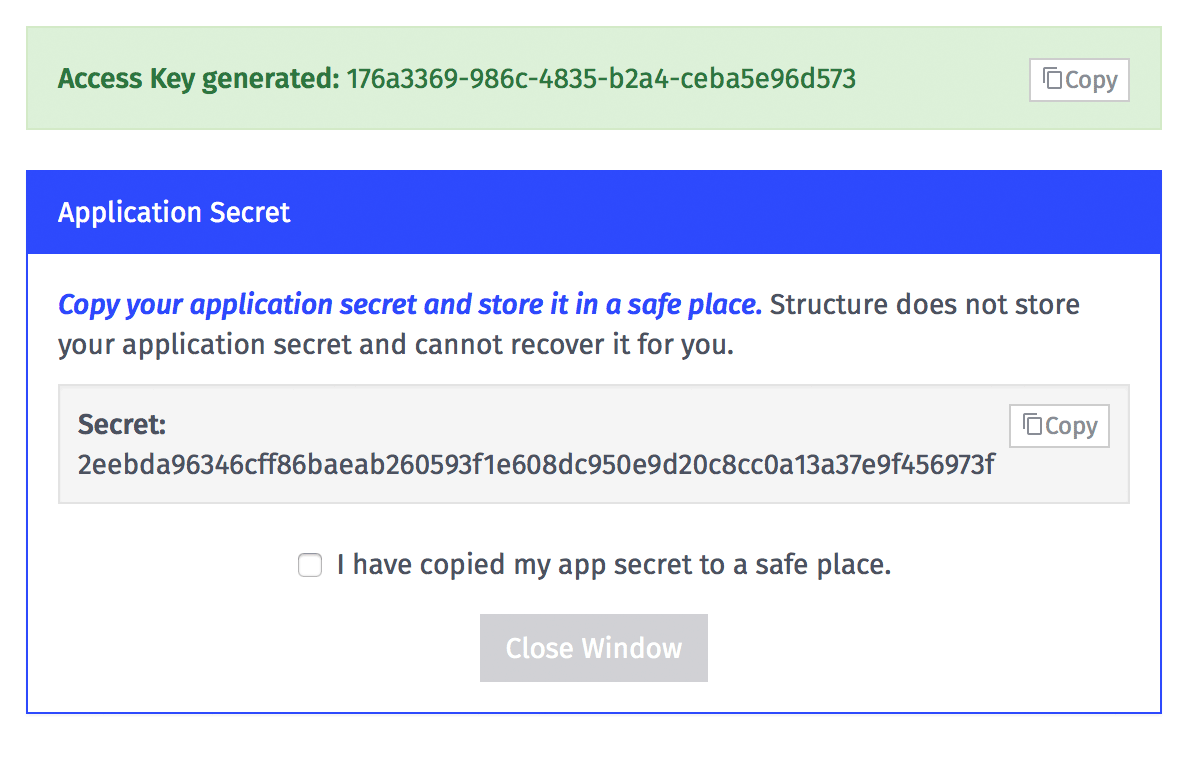
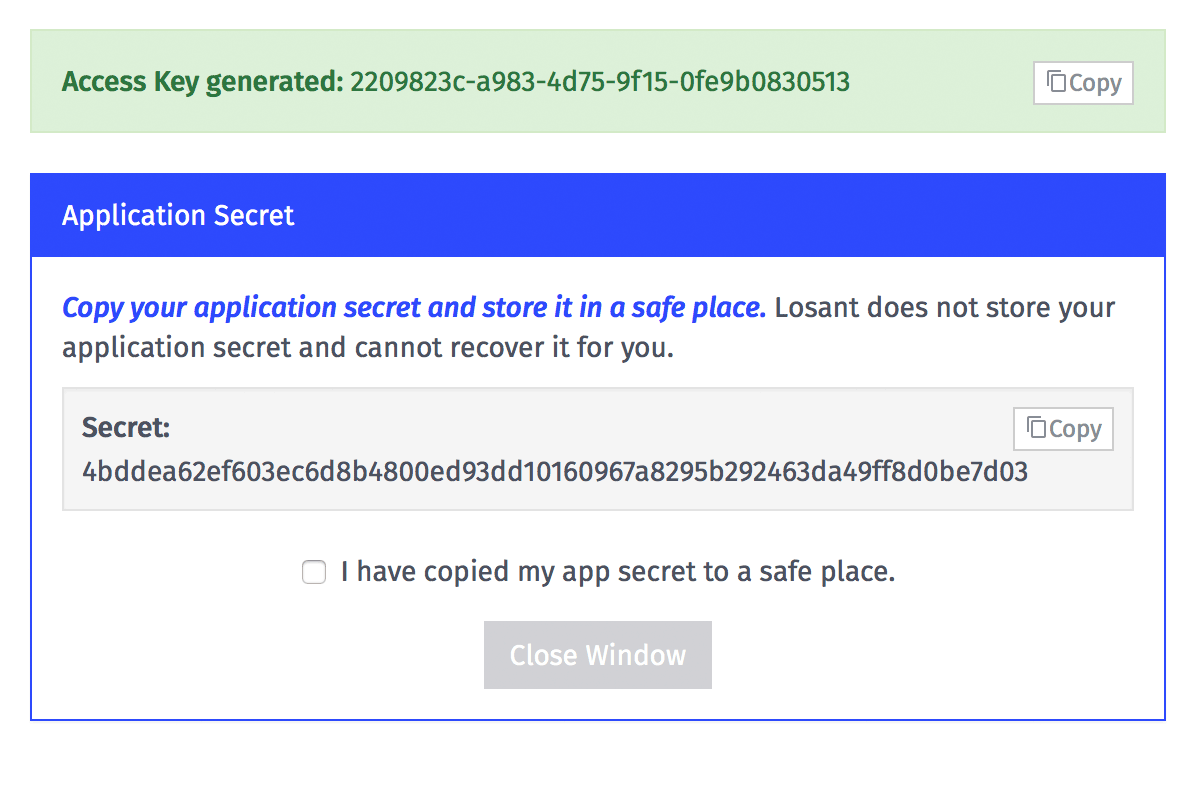
Added moisture sensor kit instructions.

diff --git a/docs/getting-started/losant-iot-dev-kits/moisture-sensor-kit.md b/docs/getting-started/losant-iot-dev-kits/moisture-sensor-kit.md
@@ -1,1 +1,251 @@
 # Moisture Sensor Kit Instructions
+
+The Losant Moisture Sensor Kit includes everything required to keep your plants watered and happy. These instructions provide a step-by-step overview to build and configure your moisture sensor to alert you via SMS or email when your plant needs attention.
+
+As you perform these workshops, if you run into any issues, please refer to the [Losant Documentation](https://docs.losant.com) and the [Losant Forums](https://forums.losant.com) for help.
+
+Your kit should include the following items:
+
+* 1 NodeMCU development board
+* 1 Moisture sensor
+* 1 LED
+* 2 male-to-male jump wires
+* 3 male-to-female jump wires
+* 1 resistor
+* 1 solderless breadboard
+* 1 USB cable
+
+## Environment Setup
+
+In order to properly program the kit's microcontroller, please follow the [environment setup instructions](/getting-started/losant-iot-dev-kits/environment-setup/). These steps only need to be completed once, so if you've already done this for a previous kit, you can skip this step.
+
+## Losant Setup
+
+In this section, you’ll register for a Losant account, create your application, and add the device for your builder kit.
+
+### Create Account
+
+If you don't already have an account, navigate to [https://accounts.losant.com/create-account](https://accounts.losant.com/create-account) to register.
+
+### Create Application
+
+Create an application for the moisture sensor kit. You can name it whatever you want.
+
+![Create Application](/images/getting-started/losant-iot-dev-kits/builder-kit/create-application.png "Create Application")
+
+![Application Name](/images/getting-started/losant-iot-dev-kits/moisture-sensor/application-name.png "Application Name")
+
+### Add Device
+
+The next step is to register the moisture sensor kit device with the platform. Click the `Add Device` button on the top right or select `Add Device` from the Devices dropdown.
+
+![Add Device Menu](/images/getting-started/losant-iot-dev-kits/moisture-sensor/add-device.png "Add Device Menu")
+
+Next, choose the `Create from Scratch` option.
+
+![Create From Scratch](/images/getting-started/losant-iot-dev-kits/moisture-sensor/add-from-scratch.png "Create From Scratch")
+
+![Device Settings](/images/getting-started/losant-iot-dev-kits/moisture-sensor/device-settings.png "Device Settings")
+
+1. Name the device anything you want.
+1. "Description" can be left blank, or fill it with whatever you want.
+1. Leave "Virtual Device" unchecked.
+1. No device tags are required.
+1. Add a device attribute with the name "moisture" and the type `Number`.
+
+The device attributes specify what state information the device reports. The firmware that you’ll flash in the following sections will report the raw moisture level from the sensor every minute. Device attributes are ***case sensitive***, so make sure these are ***all lowercase***.
+
+Click the `Create Device` button. The screen will change and show the device’s ID. This ID is required for the following sections. You might want to copy/paste it somewhere convenient.
+
+![Device ID](/images/getting-started/losant-iot-dev-kits/moisture-sensor/device-id.png "Device ID")
+
+### Generate Security Tokens
+
+Now we need to generate some security tokens so your device can authenticate against the Losant platform. Select `More > Access Keys` from the application menu.
+
+![Access Keys Menu](/images/getting-started/losant-iot-dev-kits/moisture-sensor/access-keys-menu.png "Access Keys Menu")
+
+Generate an access key that provides access to all devices in your application.
+
+![Token Restrictions](/images/getting-started/losant-iot-dev-kits/builder-kit/token-restrictions.png "Token Restrictions")
+
+This will cause a popup to appear with your access tokens. Losant ***DOES NOT*** store the secret, so you’ll have to copy it somewhere secure. Both of these values will be needed in the following sections, so make sure you copy/paste them somewhere convenient.
+
+![Access Token Popup](/images/getting-started/losant-iot-dev-kits/builder-kit/access-token-popup.png "Access Token Popup")
+
+## Get Moisture Sensor Firmware
+
+Now let's get the firmware you'll be flashing to the device. Download and extract the following zip file to your computer. We'll be editing and opening these files using the Arduino IDE, so put it somewhere convenient.
+
+[https://github.com/Losant/losant-kit-moisture/archive/master.zip](https://github.com/Losant/losant-kit-moisture/archive/master.zip)
+
+If you're familiar with git, you can also clone the repository from here:
+
+[https://github.com/Losant/losant-kit-moisture](https://github.com/Losant/losant-kit-moisture)
+
+## Wiring
+
+***Disconnect the microcontroller from USB before wiring.***
+
+In this step we're going to to connect the moisture sensor and the LED to the microcontroller. Below is the wiring diagram.
+
+// TODO: Diagram
+
+1. Push the microcontroller into terminals 1-15 on either side of the center line, which are rows `b` and `i`. The USB port should be facing away from the breadboard.
+1. Connect the GND pin on the microcontroller `a2` to the negative rail with a jump wire. The color of the jump wire doesn't matter.
+1. Insert the LED into terminals `b22` and `b23`. Ensure the positive lead on the LED (the longer one) is in terminal `b22`.
+1. Connect the negative rail to the negative lead on the LED `c23` with the resistor.
+1. Connect the positive lead on the LED `c22` to pin D1 on the microcontroller `a14`.
+1. Use a female-to-male jump wire to connect the `GND` terminal on the moisture sensor to the negative rail on the breadboard.
+1. Use a female-to-male jump wire to connect the `VCC` terminal on the moisture sensor to pin D2 on the microcontroller `a13`.
+1. Use a female-to-male jump wire to connect the `SIG` terminal on the moisture sensor to the A0 pin on the microcontroller `j15`.
+
+![Wiring Image](/images/getting-started/losant-iot-dev-kits/moisture-sensor/wiring-image.jpg "Wiring Image")
+
+## Flash the Firmware
+
+Connect the microcontroller to your computer with the supplied USB cable. Make sure the device shows up under the Arduino IDE's `Tools -> Port` menu and it's selected.
+
+With the Arduino IDE, use the `File -> Open` menu to navigate to where you downloaded and extracted the kit source code and open the file `losant-kit-moisture/losant-kit-moisture.ino`. Edit the following variables at the top of the file.
+
+1. WIFI_SSID = the name of your WiFi network
+1. WIFI_PASS = your wifi password
+1. LOSANT_DEVICE_ID = set this to the ID you received after adding the device to the Losant application
+1. LOSANT_ACCESS_KEY = set this to the access key you generated after creating the Losant application
+1. LOSANT_ACCESS_SECRET = set this to the access secret you generated after creating the Losant application
+
+![Update Variables](/images/getting-started/losant-iot-dev-kits/moisture-sensor/update-variables.png "Update Variables")
+
+Your code will automatically be saved as part of the upload process when it's flashed to the device. After editing the code, open the Arduino IDE's Serial Monitor and change the baud rate to 115200. The serial monitor can be opened using the button on the top right of the Arduino IDE or using the `Tools -> Serial Monitor` menu.
+
+![Open Serial Monitor](/images/getting-started/losant-iot-dev-kits/moisture-sensor/serial-monitor-button.png "Open Serial Monitor")
+
+![Serial Monitor Baud](/images/getting-started/losant-iot-dev-kits/builder-kit/serial-monitor-baud.png "Serial Monitor Baud")
+
+The serial monitor won't print any information until we flash the device with the source code in the next step.
+
+Upload the firmware to the device by clicking the `Upload` button or the `Sketch -> Upload` menu. This will take a few seconds, and the microcontroller will rapidly blink a blue light while it’s uploading.
+
+![Upload Button](/images/getting-started/losant-iot-dev-kits/moisture-sensor/upload-button.png "Upload Button")
+
+After the upload is complete, the Serial Monitor should start printing information about it connecting to WiFi and Losant. It may also print some garbage, but that's just part of the board booting up. It will then print the moisture level every minute.
+
+![Serial Output](/images/getting-started/losant-iot-dev-kits/moisture-sensor/serial-output.png "Serial Output")
+
+Every 60 seconds the firmware is publishing the state `{ "moisture": <value> }` to Losant. The moisture value is the raw number between 0-1024 that the microcontoller's ADC is providing. Higher values mean more moisture and lower values mean less moisture.
+
+It’s now time to put your moisture sensor in a plant and start making use of this data.
+
+## Install Moisture Sensor
+
+Insert the moisture sensor roughly halfway to two thirds into your plant's soil. Make sure the soil is not touching any of the components or leads at the top of the sensor. You can then position the microcontroller and breadboard wherever is convenient.
+
+![Moisture Sensor](/images/getting-started/losant-iot-dev-kits/moisture-sensor/moisture-sensor.jpg "Moisture Sensor")
+
+![Moisture Sensors](/images/getting-started/losant-iot-dev-kits/moisture-sensor/moisture-sensors.jpg "Moisture Sensors")
+
+## Setup Alerts
+
+Now that real moisture data is flowing into Losant, we can set up our alerts to be notified by SMS and email whenever the moisture level reaches a certain value. We're also going to send a command back to the board to turn on the LED, just in case you missed the alert. For this, we're going to use [Losant Workflows](/workflows/overview/).
+
+First, create a new workflow and name it whatever you want.
+
+![Create Workflow](/images/getting-started/losant-iot-dev-kits/moisture-sensor/create-workflow.png "Create Workflow")
+
+![Workflow Settings](/images/getting-started/losant-iot-dev-kits/moisture-sensor/workflow-settings.png "Workflow Settings")
+
+As a way to get up and running as fast as possible, we've provided you a workflow you can import. In the firmware zip file you downloaded earlier, there is a file named `low-moisture-alert.flow`. Import this file into your workflow using the import tools on the workflow properties panel.
+
+![Import Workflow](/images/getting-started/losant-iot-dev-kits/moisture-sensor/import-workflow.png "Import Workflow")
+
+Once imported, your workflow should look like the following.
+
+![Imported Workflow](/images/getting-started/losant-iot-dev-kits/moisture-sensor/imported-workflow.png "Imported Workflow")
+
+Don't worry, this workflow will be completely explained later, but for now we need to properly configure it.
+
+You'll notice that there are three nodes that have small error icons: the device trigger and the two device command outputs. These have errors because they need a device to be configured. Click on each of them and select your device from the dropdown. All three nodes should be configured for the same device.
+
+![Nodes with Errors](/images/getting-started/losant-iot-dev-kits/moisture-sensor/nodes-with-errors.png "Nodes with Errors")
+
+![Node Device Option](/images/getting-started/losant-iot-dev-kits/moisture-sensor/node-device-option.png "Node Device Option")
+
+The last thing you'll have to do is set up this workflow's global configuration. The global configuration holds the alert threshold, your phone number, and your email address. Click on the `Globals` tab on the bottom right.
+
+![Globals Tab](/images/getting-started/losant-iot-dev-kits/moisture-sensor/globals-tab.png "Globals Tab")
+
+The `badLevel` and `goodLevel` values will be dependent on your specific plant and soil type. For our office plants, a `badLevel` of 350 and a `goodLevel` of 450 generally work well. You may need to change these as you begin collecting data.
+
+The `badLevel` indicates the moisture sensor reading where Losant should alert you. The `goodLevel` basically tells Losant the plant has been watered.
+
+Fill in the `smsNumber` and `email` fields with your phone number and email address respectively. These are the alerts that Losant will use.
+
+With all fields entered you can now deploy this workflow and begin seeing data from your moisture sensor.
+
+![Deploy Workflow](/images/getting-started/losant-iot-dev-kits/moisture-sensor/deploy-workflow.png "Deploy Workflow")
+
+The moisture sensor reports moisture level every minute, so roughly a minute after you deploy this workflow you should be able to inspect the payloads it's receiving using the Debug tab.
+
+![Debug Tab](/images/getting-started/losant-iot-dev-kits/moisture-sensor/debug-tab.png "Debug Tab")
+
+As you can see, the moisture sensor in the above example is reporting a value of 324, which indicates the plant needs water and would trigger the SMS and email alerts. You can use this debug output to tweak the global configuration values as needed.
+
+This workflow is just a starting point. Losant can connect this device to many different outputs and other 3rd-party services. As an additional challenge, see if you can figure out how to Tweet a message whenever your plant needs water.
+
+### Workflow Walkthrough
+
+This section explains each part of the workflow so you can get an understanding of what's going on and how alerts are triggered. For a deeper dive into how workflows work, please read the [Workflow Overview](/workflows/overview/).
+
+1. The `Device` trigger. Every workflow starts with some kind of trigger to kick things off. This workflow will execute every time the moisture sensor reports state. The firmware that we flashed to it earlier reports state every 60 seconds, so this workflow will run each time that happens.
+1. The `Conditional` logic node. The payload that the device reports is passed into a conditional node to check whether a "turnLedOn" or "turnLedOff" command should be sent to the device. The conditional node is using the `badLevel` global configuration variable that you specified earlier. The actual condition is `{{ data.moisture }} < {{ globals.badLevel }}`. This is simply checking if `data.moisture`, which was reported by the device, is less than the `badLevel`. Using double curly braces allows us to pull values from the current payload. You can always see the payload by looking at the `Debug` tab.
+1. The `Device Command` nodes. If the conditional node evaluates to true, this node will send the "turnLedOn" command back to our moisture sensor. The firmware we flashed to it is listening for a command of this name and will turn the LED on if it receives it. If the conditional node evaluates to false, the device will receive a "turnLedOff" command, which simply turns the LED off.
+1. The `Latch` node. Latches work very similar to conditional nodes, but only allow the true path to be executed once (latched). The true path can only be executed again if a reset condition is met (unlatched). We use a latch node here because we don't want to get an email or SMS every time the sensor reports a low moisture level - remember that the device is reporting every 60 seconds. We only want to be alerted once when moisture level is low and then only alerted again if the plant was watered and moisture level goes low again. This is where the `goodLevel` global configuration value comes in. We will only unlatch this node if the moisture level goes back high enough to indicate the plant was watered. At that point it's safe to alert us again when it goes low.
+1. The `SMS` and `Email` nodes. These are pretty straightforward. Whenever the latch determines the moisture level is low (and it's not already latched), these two nodes will be executed. The SMS node simply sends a message to the number stored in the `smsNumber` global configuration field and the email node sends a message to the addressed stored in the `email` global configuration field.
+1. The `Debug` node. You've already seen the output of the debug node using the debug tab. Whenever a payload hits the debug node it is displayed in that tab. This allows you to easily debug workflows as you are building them.
+
+## Build a Dashboard
+
+In this step, we're going to build a dashboard to visualize the real-time and historical moisture levels. First, create a new dashboard from the `Dashboards` menu.
+
+![Create Dashboard Create](/images/getting-started/losant-iot-dev-kits/moisture-sensor/create-dashboard-menu.png "Create Dashboard Menu")
+
+You can name the dashboard anything you'd like. If you'd like to [let other people](/dashboards/overview/#public-dashboards) see your dashboard, you can optionally click the `Dashboard Is Public` checkbox.
+
+![Dashboard Settings](/images/getting-started/losant-iot-dev-kits/moisture-sensor/dashboard-settings.png "Dashboard Settings")
+
+Next, add a gauge block.
+
+![Add Gauge](/images/getting-started/losant-iot-dev-kits/moisture-sensor/add-gauge.png "Add Gauge")
+
+![Gauge Settings](/images/getting-started/losant-iot-dev-kits/moisture-sensor/gauge-settings.png "Gauge Settings")
+
+Name the block anything you want. Make sure your application is selected. Change the `Gauge Type` to `Dial Gauge`. Set the minimum and maximum to whatever makes sense for your plant. You can easily change these later as you collect more data. Set the `Duration` to `Last received data point`, which will show the real-time value. Lastly, make sure your device is selected, set the label to whatever you want, and make sure the moisture attribute is being graphed. As soon as all the fields are filled out, you should see a real-time preview on the top-right of the screen.
+
+Click `Add Block` to add the gauge to your dashboard.
+
+![Dashboard with Gauge](/images/getting-started/losant-iot-dev-kits/moisture-sensor/dashboard-with-gauge.png "Dashboard with Gauge")
+
+Now let's add a time series graph that shows the moisture level over time. Click the `Add Block` button on the top-right of the screen and select the `Time Series Graph` block.
+
+![Add Block Button](/images/getting-started/losant-iot-dev-kits/moisture-sensor/add-block-button.png "Add Block Button")
+
+![Select Time Series](/images/getting-started/losant-iot-dev-kits/moisture-sensor/select-time-series.png "Select Time Series")
+
+![Time Series Settings](/images/getting-started/losant-iot-dev-kits/moisture-sensor/time-series-settings.png "Time Series Settings")
+
+Name the block anything you want. Make sure your application is selected. Since you likely don't have very much data yet, set the time range to 60 minutes. As you collect more data you can increased this to show more historical information. Lastly, make sure you moisture sensor device is selected, set the label to anything you want, and make sure the moisture attribute is being graphed. Just like with the gauge, you should see a live preview as soon as all fields are populated. When done, click the `Add Block` button.
+
+![Dashboard With Time Series](/images/getting-started/losant-iot-dev-kits/moisture-sensor/dashboard-with-time-series.png "Dashboard With Time Series")
+
+And with that, your moisture sensor kit is now ready to go. If you made your dashboard public you can share the URL of your dashboard with others so they can also see how well your plants are doing.
+
+If you've purchased multiple moisture sensors to monitor more than one plant, you can simply add all of them to the same application. Here's the public dashboard of the [Losant office plants](https://app.losant.com/#/dashboards/56f0918f2d198e01002b05d4). You can see how one application and one dashboard can support multiple devices. Some workflow tweaks will be required to support more than one sensor, but I'll leave that as a challenge to you.
+
+<a href="https://twitter.com/share" class="twitter-share-button" data-url="https://store.losant.com/products/losant-moisture-sensor-kit" data-text="Green thumb activated! Just installed my @LosantHQ  #IoT moisture sensor kit" data-size="large">Tweet</a>
+<script>!function(d,s,id){var js,fjs=d.getElementsByTagName(s)[0],p=/^http:/.test(d.location)?'http':'https';if(!d.getElementById(id)){js=d.createElement(s);js.id=id;js.src=p+'://platform.twitter.com/widgets.js';fjs.parentNode.insertBefore(js,fjs);}}(document, 'script', 'twitter-wjs');</script>
+
+Don't stop now! Losant has several kits available.
+
+1. Losant Builder Kit ( [Buy Now](https://store.losant.com/products/losant-builder-kit) | [Instructions](/getting-started/losant-iot-dev-kits/builder-kit/) )
+1. Moisture Sensor Kit ( [Buy Now](https://store.losant.com/products/losant-moisture-sensor-kit) | [Instructions](/getting-started/losant-iot-dev-kits/moisture-sensor-kit/) )
+1. Door Sensor Kit ( [Buy Now](https://store.losant.com/products/losant-door-sensor-kit) | [Instructions](/getting-started/losant-iot-dev-kits/door-sensor-kit/) )

diff --git a/docs/getting-started/losant-iot-dev-kits/builder-kit.md b/docs/getting-started/losant-iot-dev-kits/builder-kit.md
@@ -45,6 +45,10 @@ The next step is to register the builder kit device with the platform. Click the
 
 ![Add Device Menu](/images/getting-started/losant-iot-dev-kits/builder-kit/add-device-menu.png "Add Device Menu")
 
+Next, choose the `Create from Scratch` option.
+
+![Create From Scratch](/images/getting-started/losant-iot-dev-kits/moisture-sensor/add-from-scratch.png "Create From Scratch")
+
 ![Add Device](/images/getting-started/losant-iot-dev-kits/builder-kit/add-device.png "Add Device")
 
 1. Name the device anything you want.
@@ -84,7 +88,7 @@ Now let's get the firmware you'll be flashing to the device. Download and extrac
 
 If you're familiar with git, you can also clone the repository from here:
 
-[https://github.com/Losant/losant-kit-builder](https://github.com/Losant/losant-kit-builder/archive/master.zip)
+[https://github.com/Losant/losant-kit-builder](https://github.com/Losant/losant-kit-builder)
 
 ## Workshop 1 – Internet Button
 
